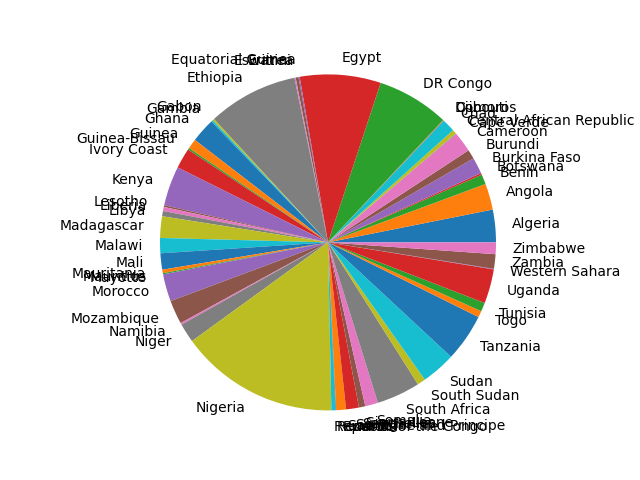
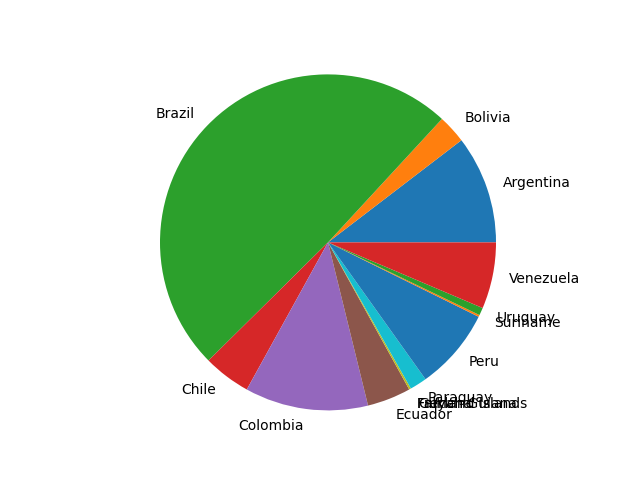
update app webservice

Changed region(s): [[0.0938, 0.0938, 1.0, 0.9062]]

diff --git a/web-server/main.py b/web-server/main.py
@@ -1,0 +1,24 @@
+import store
+from fastapi import FastAPI
+from fastapi.responses import HTMLResponse
+
+app = FastAPI()
+
+@app.get('/')
+def get_list():
+    return[1,2,3]
+
+@app.get('/contact', response_class=HTMLResponse)
+def get_list():
+    return"""
+        <h1>Hoola soy una pagina</h1>
+        <p>Un parrafo</p>
+
+"""
+
+def run():
+    store.get_categories()
+
+if __name__ == '__main__':
+    run()
+

diff --git a/web-server/store.py b/web-server/store.py
@@ -1,0 +1,10 @@
+import requests
+
+def get_categories():
+    r = requests.get('https://api.escuelajs.co/api/v1/categories')
+    print(r.status_code)
+    print(r.text)
+    print(type(r.text))
+    categories = r.json()
+    for category in categories:
+        print(category['name'])

diff --git a/app/main.py b/app/main.py
@@ -11,7 +11,7 @@ def run():
   '''
 
   df = pd.read_csv('data.csv')
-  df = df[df['Continent'] == 'Africa']
+  df = df[df['Continent'] == 'South America']
 
   countries = df['Country'].values
   percentages = df['World Population Percentage'].values
